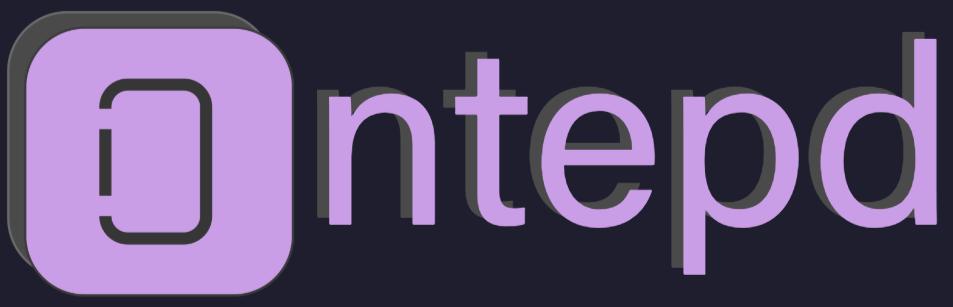
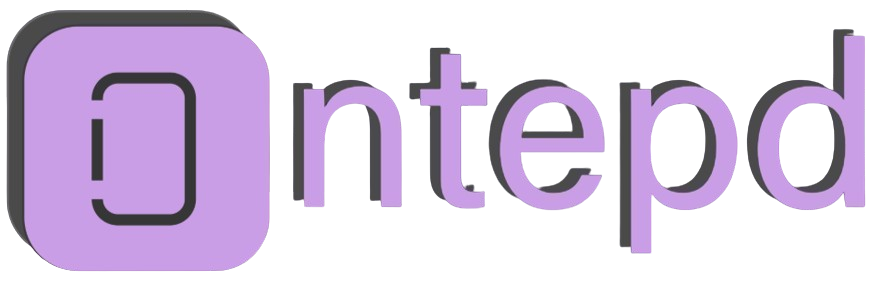
Multiple changes Remove background from wordmark Fix mobile navbar (Resolve #3) Change "documentation" to "docs" on /docs

diff --git a/styles.css b/styles.css
@@ -635,3 +635,21 @@ nav {
     opacity: 0.9;
     line-height: 1.6;
 }
+
+
+
+@media screen and (max-width: 768px) {
+    .nav-buttons {
+        display: none;
+    }
+}
+
+@media screen and (max-width: 768px) {
+    .nav-buttons {
+        display: none;
+    }
+    
+    .nav-container {
+        justify-content: center; 
+    }
+}

diff --git a/docs/index.html b/docs/index.html
@@ -34,7 +34,7 @@
     <main>
         <div class="hero">
             <div class="hero-content">
-                <h1>Documentation<br>without<br>distractions</h1>
+                <h1>docs<br>without<br>distractions</h1>
             </div>
         </div>
 
